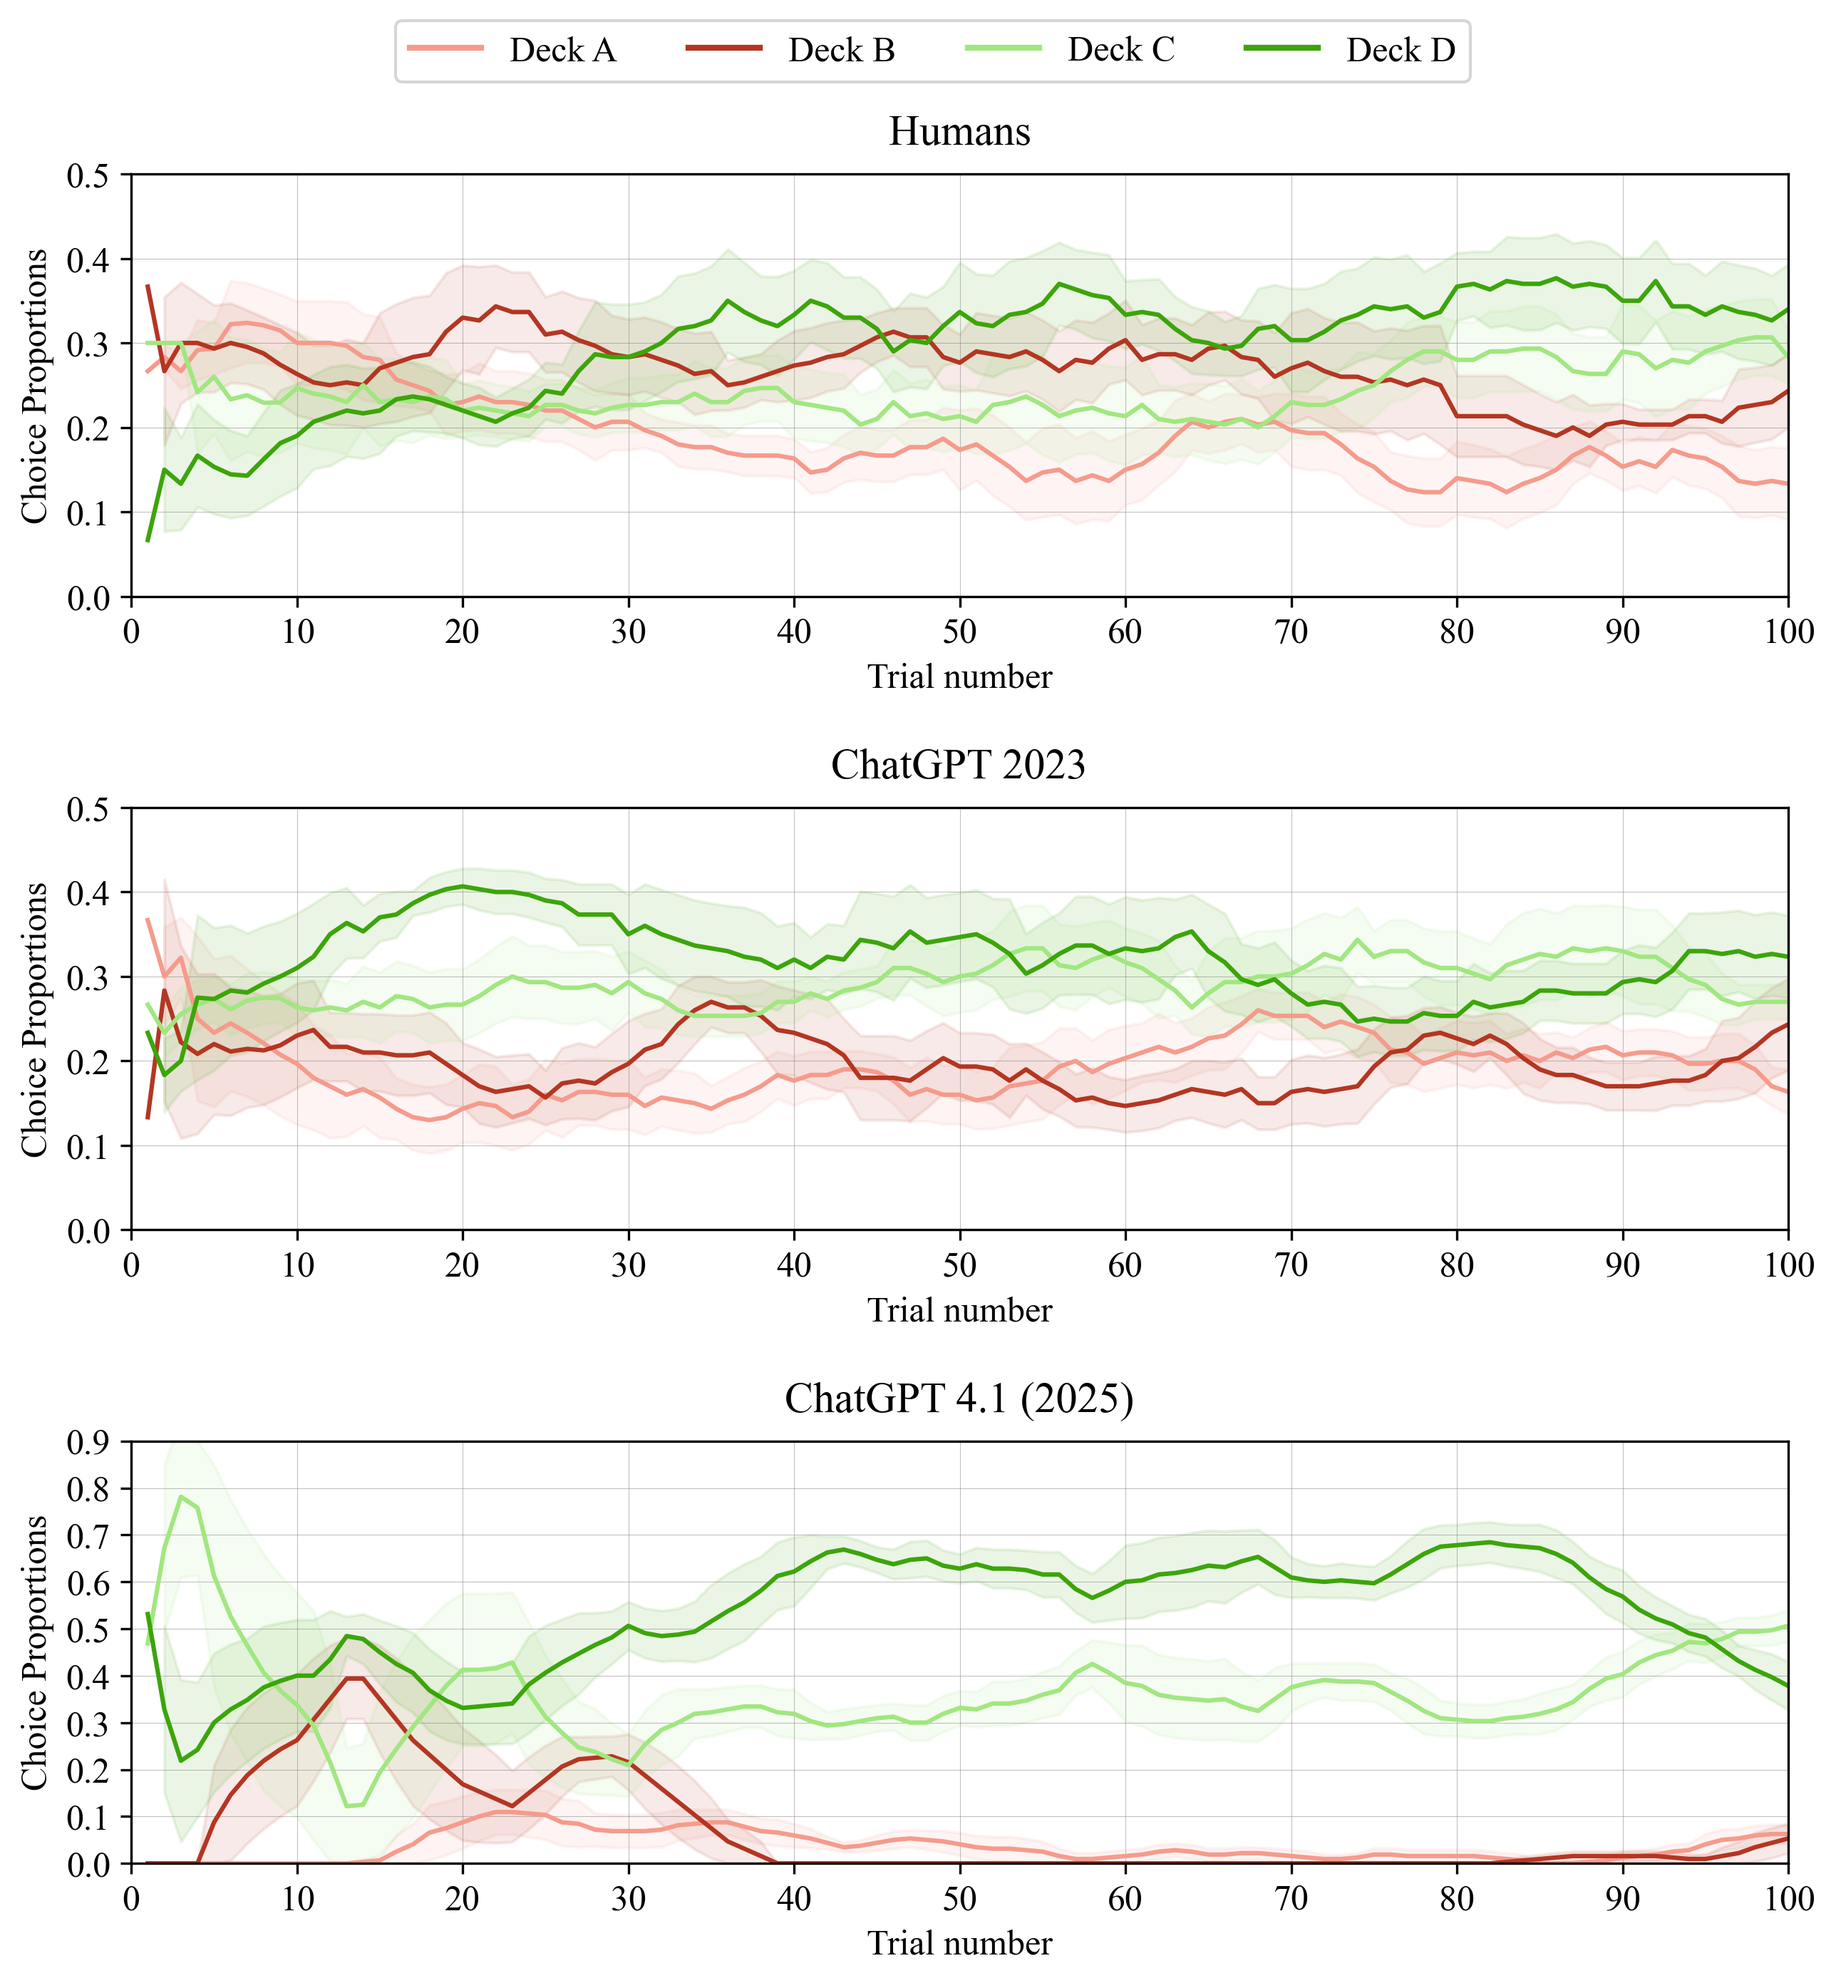
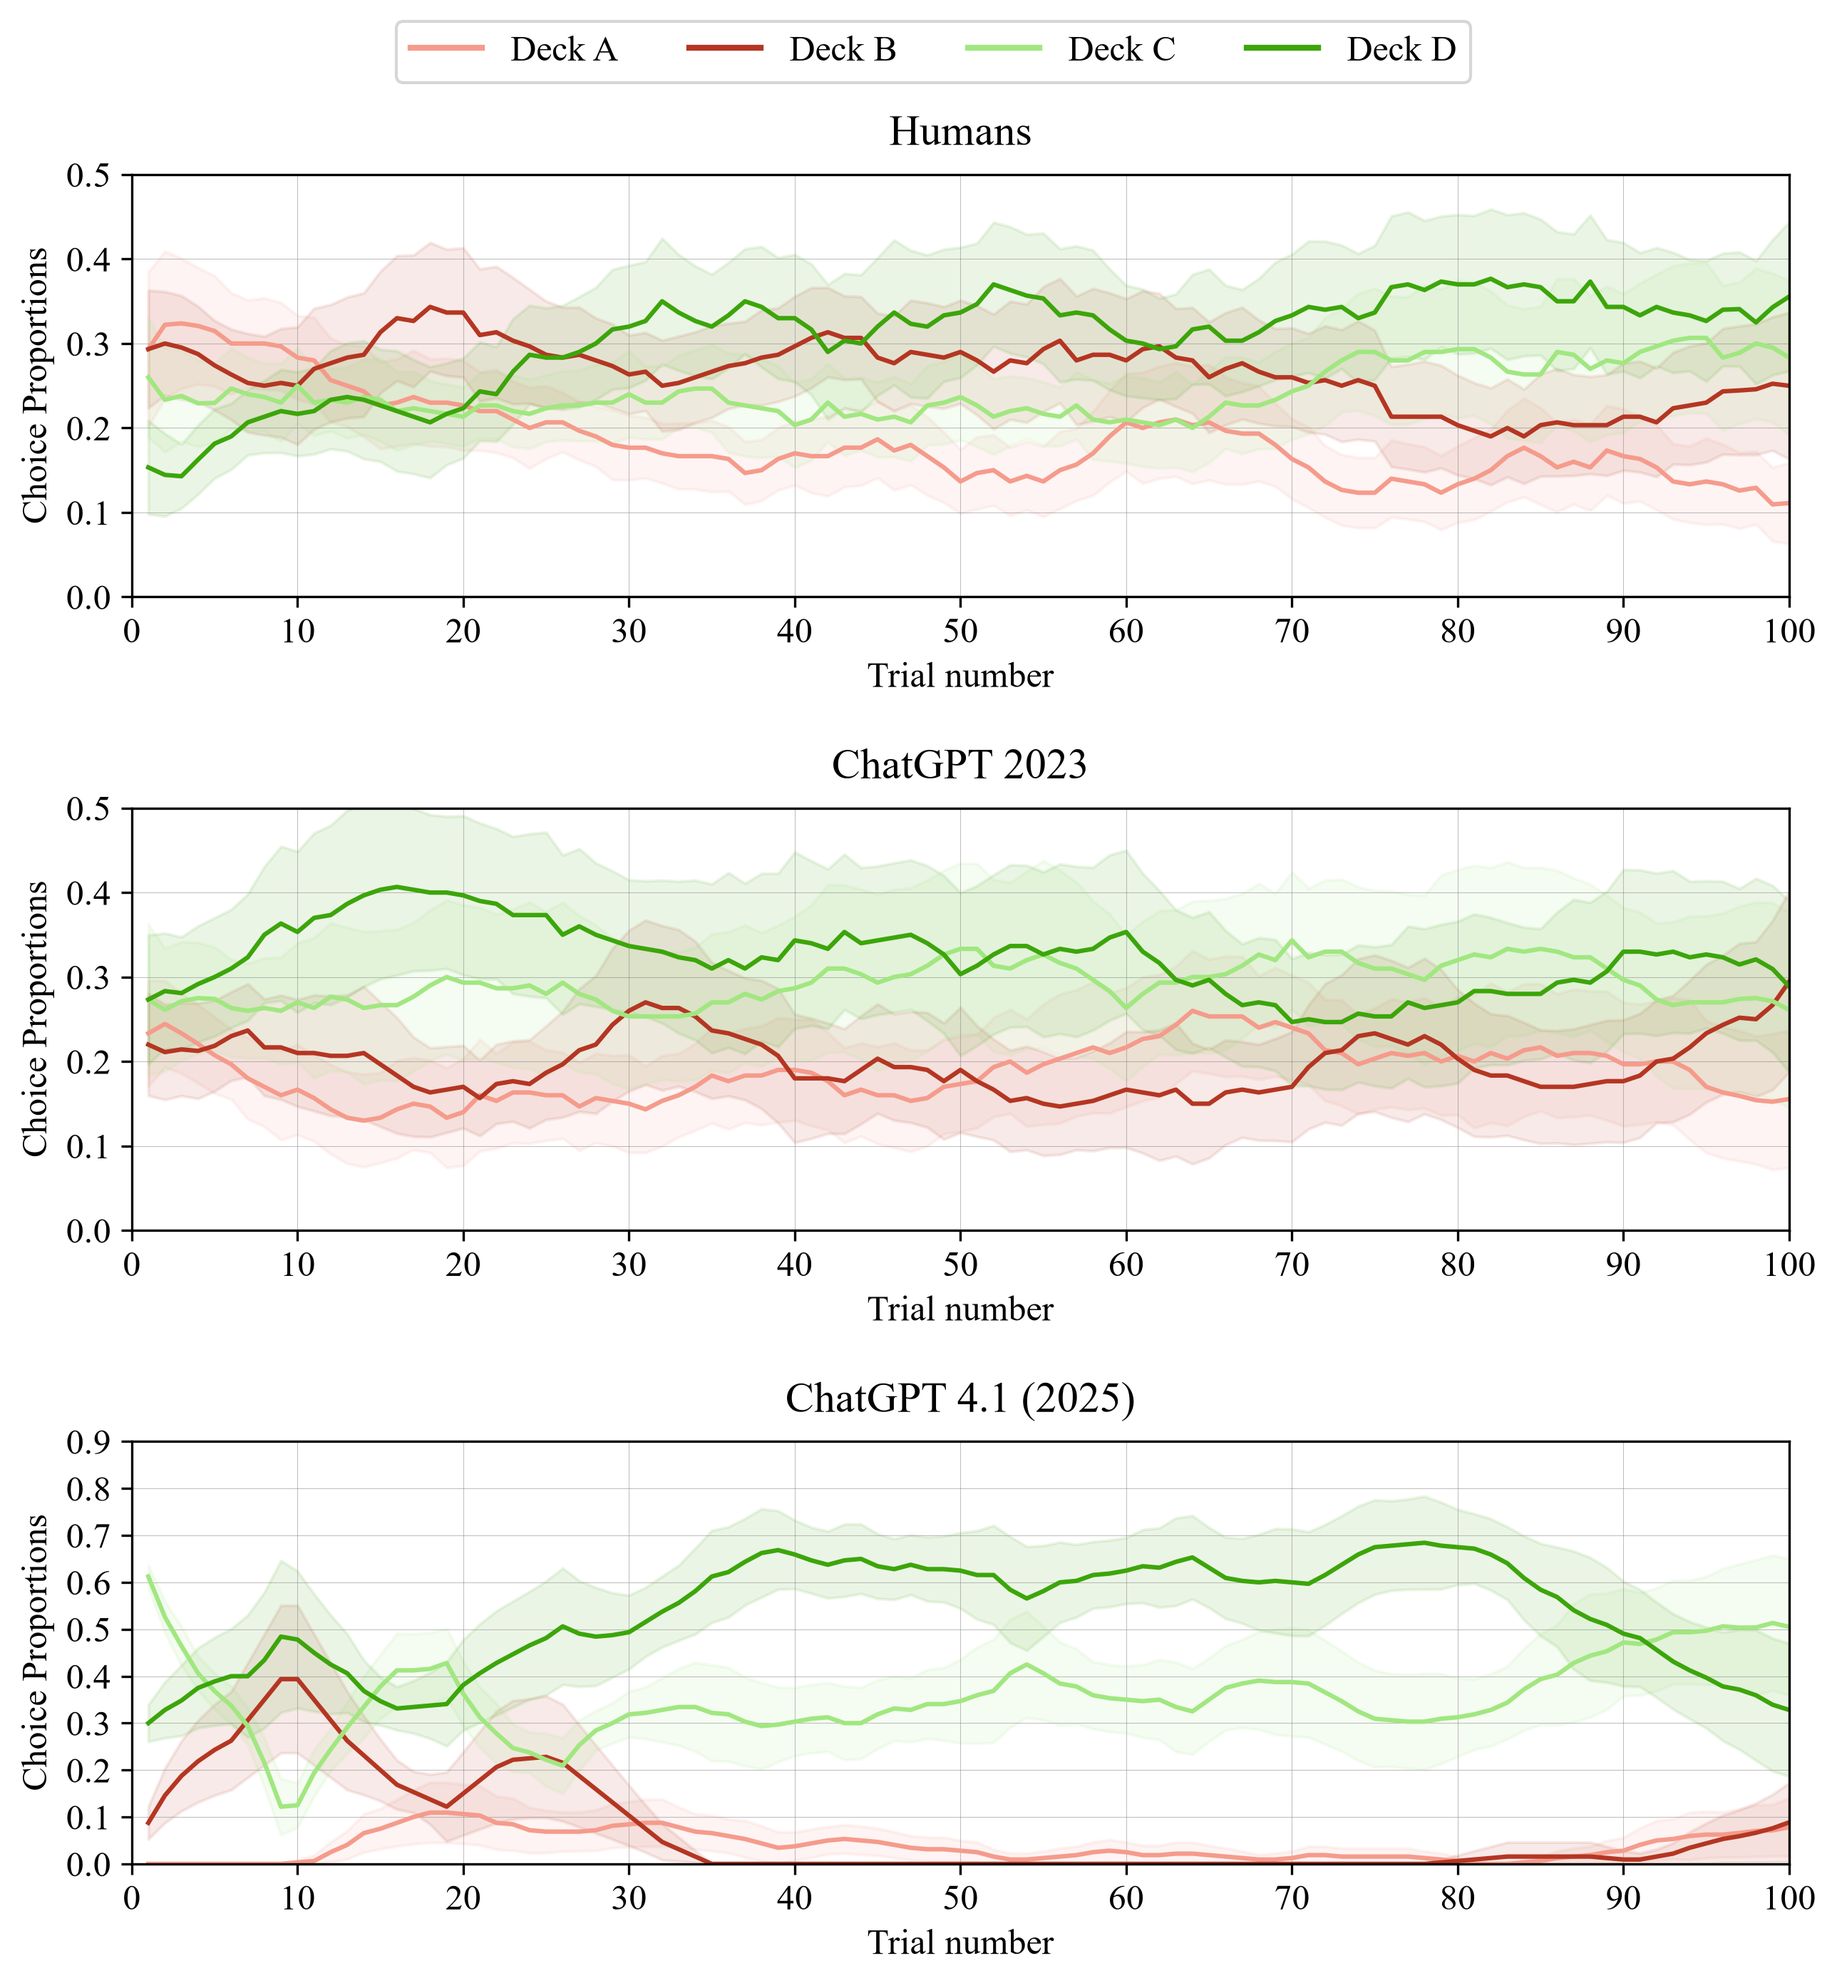
now that I have time, im trying to fix original mistakes. incl confidence intervals in plots being wrong & unnecessary epsilon in WSLS

diff --git a/src/1_descriptives/deck_preference.py b/src/1_descriptives/deck_preference.py
@@ -15,93 +15,62 @@ def set_font():
         # set font size to 13
         plt.rcParams.update({'font.size': 12})
 
-def calculate_deck_preferences(data):
-    # create a new column that indicates the trial number
+def calculate_deck_preferences(data, window_size=10):
+    data = data.copy()
     data['trial'] = data.groupby('subjID').cumcount() + 1
+    data['x'] = data['x'].replace([1, 2, 3, 4], ['A', 'B', 'C', 'D'])
 
-    # replace 1,2,3,4 with A,B,C,D for 'x' column
-    data['x'] = data['x'].replace([1,2,3,4], ['A','B','C','D'])
+    # one indicator column per deck (1 if chosen on that trial)
+    decks = ['A', 'B', 'C', 'D']
+    dummies = pd.get_dummies(data['x']).reindex(columns=decks, fill_value=0).astype(float)
+    dummies['subjID'] = data['subjID']
+    dummies['trial'] = data['trial']
 
-    grouped = data.groupby(['trial', 'x']).size().unstack(fill_value=0)
-    # Calculate the proportion of each 'x' value in each trial
-    proportions = grouped.div(grouped.sum(axis=1), axis=0)
+    # smooth within each subject (centered window)
+    smoothed = (dummies.groupby('subjID')[decks]
+                .transform(lambda s: s.rolling(window_size, center=True, min_periods=1).mean()))
+    smoothed['trial'] = dummies['trial']
 
-    # Reset the index to have 'trial' as a column
-    proportions.reset_index(inplace=True)
+    # mean and standard error across subjects for each trial (IT WAS THE GROUP CURVE BEFORE, NOT STANDARD ERROR)
+    g = smoothed.groupby('trial')[decks]
+    mean = g.mean()
+    se = g.std() / np.sqrt(g.count())
+    return mean, se
 
-    return proportions
 
-
-def plot_deck_preferences(data1, data2, data3, labels, window_size=10, save_path=None):
-    # Create a plot with three subplots
-    fig, (ax1, ax2, ax3) = plt.subplots(3, 1, figsize=(10, 10))
-
-    # add space between subplots
+def plot_deck_preferences(data1, data2, data3, labels, save_path=None):
+    fig, axes = plt.subplots(3, 1, figsize=(10, 10))
     fig.subplots_adjust(hspace=0.5, top=0.90)
 
-    # Define colors for all four decks
     colors = ["#F59B8C", "#B43622", "#A1E780", "#3CA50A"]
+    decks = ['A', 'B', 'C', 'D']
 
-    # loop over both subplots and datasets
-    for i, (ax, data) in enumerate(zip([ax1, ax2, ax3], [data1, data2, data3])):
-        # Apply smoothing
-        smooth_data = data.iloc[:, 1:].rolling(window=window_size, min_periods=1).mean()
-        std_error = data.iloc[:, 1:].rolling(window=window_size, min_periods=1).std()
-        
-        # Calculate confidence interval (95%)
-        ci = 1.96 * std_error / np.sqrt(window_size)
+    for i, (ax, (mean, se)) in enumerate(zip(axes, [data1, data2, data3])):
+        trials = mean.index
+        for j, deck in enumerate(decks):
+            ci = 1.96 * se[deck]
+            ax.plot(trials, mean[deck], color=colors[j])
+            ax.fill_between(trials,
+                            np.clip(mean[deck] - ci, 0, 1),
+                            np.clip(mean[deck] + ci, 0, 1),
+                            color=colors[j], alpha=0.1)
 
-        alpha = 0.1
-
-        # Plotting line and shaded confidence interval on the correct axis
-        for j, deck in enumerate(smooth_data.columns):
-            ax.plot(data['trial'], smooth_data[deck], label=deck, color=colors[j])
-            lower_bound = np.maximum(smooth_data[deck] - ci[deck], 0)
-            upper_bound = np.minimum(smooth_data[deck] + ci[deck], 1)
-            ax.fill_between(data['trial'], lower_bound, upper_bound, color=colors[j], alpha=alpha)
-        
-        # set x-axis ticks to every 10th trial
         ax.set_xticks(np.arange(0, 101, 10))
-
-        # set y-axis ticks to every 0.1
         ax.set_yticks(np.arange(0, 1.1, 0.1))
-
-        # add very light grid
         ax.grid(color='grey', linestyle='-', linewidth=0.25, alpha=0.5)
-
-        # set title
         ax.set_title(labels[i], pad=10)
+        ax.set_ylabel('Choice Proportions')
+        ax.set_xlabel('Trial number')
+        ax.set_xlim(0, 100)
 
-    # add custom legend
-    custom_lines = [Line2D([0], [0], color=colors[0], lw=2),
-                    Line2D([0], [0], color=colors[1], lw=2),
-                    Line2D([0], [0], color=colors[2], lw=2),
-                    Line2D([0], [0], color=colors[3], lw=2)]
+    axes[0].set_ylim(0, 0.5)
+    axes[1].set_ylim(0, 0.5)
+    axes[2].set_ylim(0, 0.9)
 
-    # add legend
-    fig.legend(custom_lines, ['Deck A', 'Deck B', 'Deck C', 'Deck D'], loc='upper center', bbox_to_anchor=(0.5, 0.98), ncol=4)
+    custom_lines = [Line2D([0], [0], color=c, lw=2) for c in colors]
+    fig.legend(custom_lines, ['Deck A', 'Deck B', 'Deck C', 'Deck D'],
+               loc='upper center', bbox_to_anchor=(0.5, 0.98), ncol=4)
 
-    # add y-axis label
-    ax1.set_ylabel('Choice Proportions')
-    ax2.set_ylabel('Choice Proportions')
-    ax3.set_ylabel('Choice Proportions')
-
-    # add x-axis label
-    ax1.set_xlabel('Trial number')
-    ax2.set_xlabel('Trial number')
-    ax3.set_xlabel('Trial number')
-
-    # expand y axis
-    ax1.set_ylim(0, 0.5)
-    ax2.set_ylim(0, 0.5)
-    ax3.set_ylim(0, 0.9)
-    
-    #limit x axis
-    ax1.set_xlim(0, 100)
-    ax2.set_xlim(0, 100)
-    ax3.set_xlim(0, 100)
-
-    # save the plot
     if save_path is not None:
         plt.savefig(save_path, dpi=300, bbox_inches='tight')
 

diff --git a/src/1_descriptives/deck_switch.py b/src/1_descriptives/deck_switch.py
@@ -13,68 +13,52 @@ def set_font():
         # set font size to 13
         plt.rcParams.update({'font.size': 13})
 
-def calculate_deck_switches(data):
-    # create a new column that indicates the trial number
+def calculate_deck_switches(data, window_size=10):
+    data = data.copy()
     data['trial'] = data.groupby('subjID').cumcount() + 1
-
-    # create a new column that indicates the deck chosen on the previous trial
     data['x_last_trial'] = data.groupby('subjID')['x'].shift()
+    data = data[data['trial'] != 1]                       # no previous choice on trial 1
+    data['deck_switch'] = (data['x'] != data['x_last_trial']).astype(float)
 
-    # ensure new column is int (unless it is NaN)
-    data['x_last_trial'] = data['x_last_trial'].fillna(0).astype(int)
+    # smooth within each subject (centered window)
+    data['switch_smooth'] = (data.groupby('subjID')['deck_switch']
+                             .transform(lambda s: s.rolling(window_size, center=True, min_periods=1).mean()))
 
-    # create a column that indicates whether the deck was switched
-    data['deck_switch'] = data['x'] != data['x_last_trial']
+    # mean and standard error across subjects for each trial (IT WAS THE GROUP CURVE BEFORE, NOT STANDARD ERROR)
+    g = data.groupby('trial')['switch_smooth']
+    return pd.DataFrame({'trial': g.mean().index,
+                         'mean': g.mean().values,
+                         'se': (g.std() / np.sqrt(g.count())).values})
 
-    # create a new dataframe that indicates the proportion of subjects that switched decks on each trial
-    deck_switch_prop = data.groupby('trial')['deck_switch'].mean().reset_index()
-
-    # disregard trial one
-    deck_switch_prop = deck_switch_prop[deck_switch_prop['trial'] != 1]
-
-    return deck_switch_prop
-
-def plot_deck_switch_with_confidence(data1, data2, data3, labels, window_size=10, save_path=None):
-    # Create a plot
+def plot_deck_switch_with_confidence(data1, data2, data3, labels, save_path=None):
     fig, ax = plt.subplots(figsize=(10, 8))
 
-    # Define colors
     colors = ["#52993C", "#3C5299", "#99523C"]
-    alpha = 0.3  # Transparency for confidence interval
+    alpha = 0.3  # transparency for confidence interval
 
-    # set x-axis ticks to every 10th trial
     ax.set_xticks(np.arange(0, 101, 10))
-
-    # set y-axis ticks to every 0.1
     ax.set_yticks(np.arange(0, 1.1, 0.1))
-
-    # add very light grid
     ax.grid(color='grey', linestyle='-', linewidth=0.25, alpha=0.5)
 
-    lines = []  # To store line objects for legend
+    lines = []
     for i, data in enumerate([data1, data2, data3]):
-        # Apply smoothing
-        smooth_data = data['deck_switch'].rolling(window=window_size, min_periods=1).mean()
-        std_error = data['deck_switch'].rolling(window=window_size, min_periods=1).std()
-        
-        # Calculate confidence interval (95%)
-        ci = 1.96 * std_error / np.sqrt(window_size)  # 95% CI
-
-        # Plotting line and shaded confidence interval
-        line, = ax.plot(data['trial'], smooth_data, label=labels[i], color=colors[i])
-        ax.fill_between(data['trial'], (smooth_data - ci), (smooth_data + ci), color=colors[i], alpha=alpha)
-
+        ci = 1.96 * data['se']
+        line, = ax.plot(data['trial'], data['mean'], label=labels[i], color=colors[i])
+        ax.fill_between(data['trial'],
+                        np.clip(data['mean'] - ci, 0, 1),
+                        np.clip(data['mean'] + ci, 0, 1),
+                        color=colors[i], alpha=alpha)
         lines.append(line)
 
-    # expand y axis
-    ax.set_ylim(0, 1)
+    # switch rate expected under random choice among four decks
+    ax.axhline(0.75, linestyle='--', color='grey', linewidth=1)
 
-    # Add labels and custom legend
+    ax.set_ylim(0, 1)
+    ax.set_xlim(0, 100)
     ax.set_xlabel("Trial")
     ax.set_ylabel("Proportion of Deck Switches at Trial")
     ax.legend(handles=lines, labels=labels)
 
-    # save the plot
     if save_path is not None:
         plt.savefig(save_path, dpi=300, bbox_inches='tight')
 
